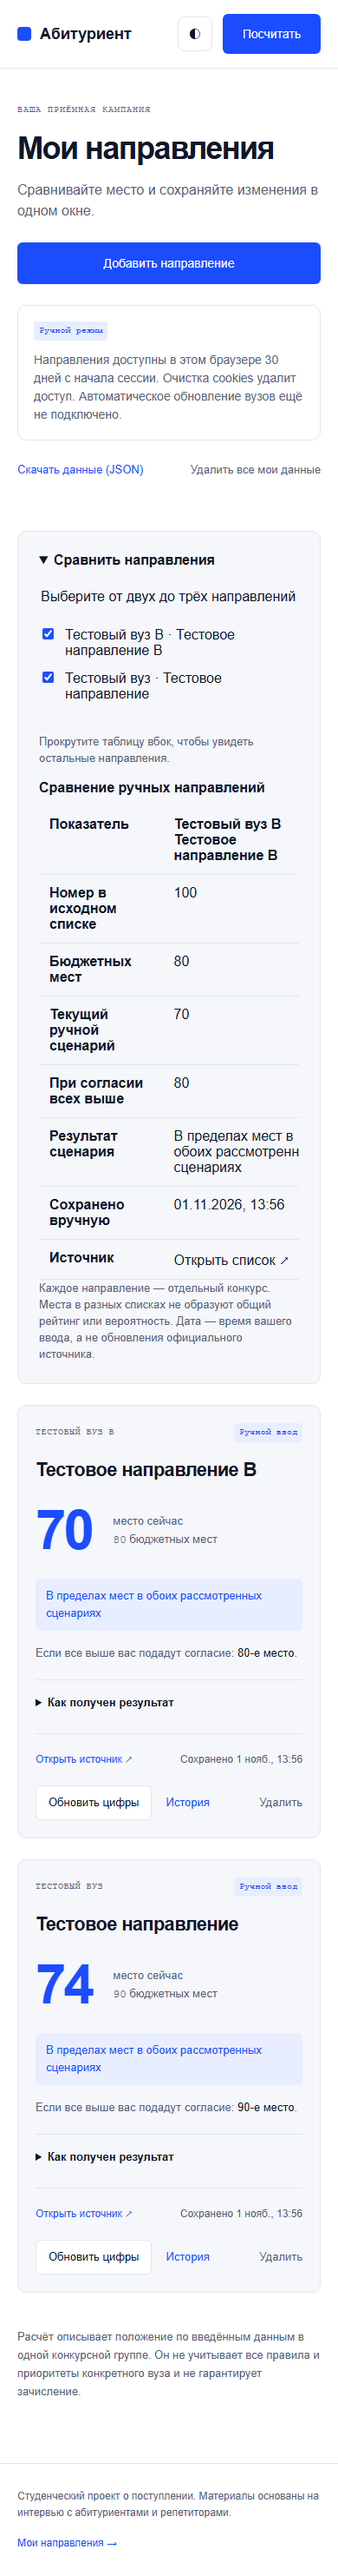
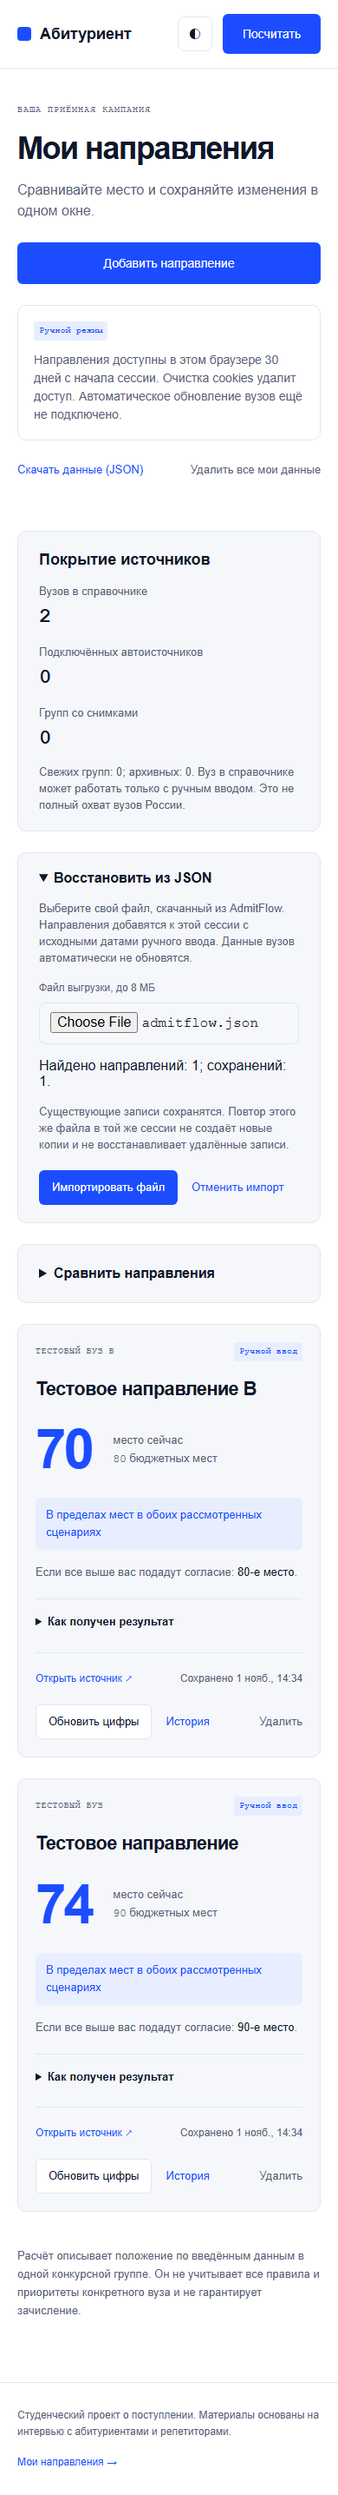
feat: expose verified admission source coverage

diff --git a/frontend/src/lib/contracts.ts b/frontend/src/lib/contracts.ts
@@ -11,6 +11,7 @@ export type Catalog = { items: University[]; total: number };
 export type DataExport = { formatVersion: 'manual-export-v1'; exportedAt: string; watches: WatchDetail[] };
 export type HistoryPage = { items: Snapshot[]; nextCursor: string | null };
 export type ImportResult = { importedCount: number; snapshotCount: number; replayed: boolean };
+export type Coverage = { catalogUniversities: number; automaticSources: number; publishedGroups: number; freshGroups: number; archiveGroups: number; nationalTotal: null; generatedAt: string };
 
 export class InvalidResponseError extends Error {
   constructor() { super('Сервер вернул некорректные данные. Расчёт не показан — попробуйте обновить страницу.'); }
@@ -108,6 +109,14 @@ export function parseImportResult(value: unknown): ImportResult {
     || typeof snapshots !== 'number' || !Number.isInteger(snapshots) || snapshots < count || snapshots > count * 500
     || typeof row.replayed !== 'boolean') throw new InvalidResponseError();
   return { importedCount: count, snapshotCount: snapshots, replayed: row.replayed };
+}
+export function parseCoverage(value: unknown): Coverage {
+  const row = object(value);
+  const counts = ['catalogUniversities', 'automaticSources', 'publishedGroups', 'freshGroups', 'archiveGroups'] as const;
+  for (const key of counts) if (typeof row[key] !== 'number' || !Number.isSafeInteger(row[key]) || row[key] < 0) throw new InvalidResponseError();
+  const result = Object.fromEntries(counts.map(key => [key, row[key]])) as Pick<Coverage, typeof counts[number]>;
+  if (result.publishedGroups > result.automaticSources || result.freshGroups + result.archiveGroups > result.publishedGroups || row.nationalTotal !== null) throw new InvalidResponseError();
+  return { ...result, nationalTotal: null, generatedAt: timestamp(row.generatedAt) };
 }
 export function parseCatalog(value: unknown): Catalog {
   const row = object(value);

diff --git a/frontend/tests/import.test.ts b/frontend/tests/import.test.ts
@@ -1,6 +1,6 @@
 import { expect, it } from 'vitest';
 import fixture from '../../shared/manual-watch.json';
-import { importKey, parseImportText } from '../src/lib/import';
+import { importKey, MAX_IMPORT_FILE_BYTES, parseImportText } from '../src/lib/import';
 import { parseImportResult } from '../src/lib/contracts';
 
 const bundle = { formatVersion: 'manual-export-v1', exportedAt: '2026-11-01T01:00:00Z', watches: [{ ...fixture, history: [fixture.latest] }] };
@@ -17,4 +17,21 @@ it('validates file contents and uses a stable key for an unchanged export', asyn
 it('rejects impossible import result counts', () => {
   expect(parseImportResult({ importedCount: 1, snapshotCount: 500, replayed: true }).replayed).toBe(true);
   for (const row of [{ importedCount: 0, snapshotCount: 1, replayed: false }, { importedCount: 1, snapshotCount: 501, replayed: false }, { importedCount: 1, snapshotCount: 1, replayed: 'false' }]) expect(() => parseImportResult(row)).toThrow();
+});
+
+it('accepts its own maximum-count pretty export with full-length IDs and numbers', () => {
+  const watches = Array.from({ length: 20 }, (_, watch) => {
+    const history = Array.from({ length: 500 }, (_, snapshot) => ({ ...fixture.latest,
+      id: `${String(watch).padStart(8, '0')}-0000-0000-0000-${String(500-snapshot).padStart(12, '0')}`,
+      capturedAt: '2026-11-01T00:00:00.123456+00:00',
+      values: { rank: 1_000_000, seats: 1_000_000, excluded: 0, noConsent: 0 },
+      calculation: { ...fixture.latest.calculation, place: 1_000_000, worstPlace: 1_000_000, seats: 1_000_000 },
+    }));
+    return { ...fixture, id: `watch-${watch}`, latest: history[0], history };
+  });
+  const text = JSON.stringify({ ...bundle, watches }, null, 2);
+  const size = new TextEncoder().encode(text).byteLength;
+  expect(size).toBeGreaterThan(6 * 1024 * 1024);
+  expect(size).toBeLessThan(MAX_IMPORT_FILE_BYTES);
+  expect(parseImportText(text).watches).toHaveLength(20);
 });

diff --git a/frontend/src/components/ImportData.tsx b/frontend/src/components/ImportData.tsx
@@ -32,7 +32,7 @@ export function ImportData({ count, disabled, onDone }: { count: number; disable
     setError('');
     mutation.reset();
     if (!file) return;
-    if (file.size > MAX_IMPORT_FILE_BYTES) { setError('Файл больше 6 МБ. Выберите выгрузку меньшего размера.'); return; }
+    if (file.size > MAX_IMPORT_FILE_BYTES) { setError('Файл больше 8 МБ. Выберите выгрузку меньшего размера.'); return; }
     setReading(true);
     try {
       const bundle = parseImportText(await file.text());
@@ -47,7 +47,7 @@ export function ImportData({ count, disabled, onDone }: { count: number; disable
   return <details className="import-data surface">
     <summary ref={summary}>Восстановить из JSON</summary>
     <p id="import-note" className="small-copy">Выберите свой файл, скачанный из AdmitFlow. Направления добавятся к этой сессии с исходными датами ручного ввода. Данные вузов автоматически не обновятся.</p>
-    <div className="field"><label htmlFor="manual-import-file">Файл выгрузки, до 6 МБ</label><input ref={input} id="manual-import-file" type="file" accept="application/json,.json" aria-describedby="import-note" disabled={disabled || reading} onChange={event => void select(event.target.files?.[0])} /></div>
+    <div className="field"><label htmlFor="manual-import-file">Файл выгрузки, до 8 МБ</label><input ref={input} id="manual-import-file" type="file" accept="application/json,.json" aria-describedby="import-note" disabled={disabled || reading} onChange={event => void select(event.target.files?.[0])} /></div>
     {reading && <p role="status">Проверяем файл…</p>}
     {error && <p className="form-error" role="alert">{error}</p>}
     {prepared && <div>

diff --git a/frontend/tests/e2e/import.spec.ts b/frontend/tests/e2e/import.spec.ts
@@ -18,7 +18,7 @@ test('новая сессия импортирует реальную выгру
   await page.reload();
   await expect(page.getByRole('heading', { name: 'Направлений пока нет' })).toBeVisible();
   await page.getByText('Восстановить из JSON', { exact: true }).click();
-  const file = page.getByLabel('Файл выгрузки, до 6 МБ');
+  const file = page.getByLabel('Файл выгрузки, до 8 МБ');
   await file.setInputFiles(upload(exported));
   await expect(page.getByText('Найдено направлений: 1; сохранений: 2.')).toBeVisible();
   expect((await (await page.request.get('/api/v1/watches')).json()).length).toBe(0);
@@ -53,11 +53,11 @@ test('невалидный или слишком большой файл не о
   page.on('request', request => { if (request.url().endsWith('/api/v1/import')) requests++; });
   await page.goto('/tracker');
   await page.getByText('Восстановить из JSON', { exact: true }).click();
-  const file = page.getByLabel('Файл выгрузки, до 6 МБ');
+  const file = page.getByLabel('Файл выгрузки, до 8 МБ');
   const invalid = { ...bundle, watches: [{ ...bundle.watches[0], latest: { ...fixture.latest, calculation: { ...fixture.latest.calculation, place: 1 } } }] };
   await file.setInputFiles(upload(invalid));
   await expect(page.getByRole('alert')).toContainText('корректную выгрузку');
-  await file.setInputFiles({ name: 'large.json', mimeType: 'application/json', buffer: Buffer.alloc(6 * 1024 * 1024 + 1) });
-  await expect(page.getByRole('alert')).toContainText('больше 6 МБ');
+  await file.setInputFiles({ name: 'large.json', mimeType: 'application/json', buffer: Buffer.alloc(8 * 1024 * 1024 + 1) });
+  await expect(page.getByRole('alert')).toContainText('больше 8 МБ');
   expect(requests).toBe(0);
 });

diff --git a/frontend/src/pages/TrackerPage.tsx b/frontend/src/pages/TrackerPage.tsx
@@ -6,6 +6,7 @@ import { ScenarioExplanation } from '../components/ScenarioExplanation';
 import { HistoryComparison } from '../components/HistoryComparison';
 import { WatchComparison } from '../components/WatchComparison';
 import { ImportData } from '../components/ImportData';
+import { CoverageSummary } from '../components/CoverageSummary';
 import { downloadExport } from '../lib/download';
 import { calculatePlace } from '../lib/calculator';
 import type { CalculationForm, CalculationValues } from '../lib/calculator';
@@ -147,6 +148,7 @@ export default function TrackerPage() {
     {expired && <div className="surface empty-state"><h2>Срок гостевой сессии истёк</h2><p>Доступ к прежним направлениям завершён или cookies были удалены. Для дальнейшей работы начните новую сессию.</p><button className="button button-primary" type="button" disabled={reset.isPending} onClick={() => reset.mutate()}>{reset.isPending ? 'Создаём…' : 'Начать новую сессию'}</button></div>}
     {reset.isError && <p className="form-error" role="alert">{errorText(reset.error)}</p>}
     <p className="tracker-notice" role="status">{notice}</p>
+    <CoverageSummary />
     <ImportData count={count} disabled={busy || expired || watches.isPending || watches.isError} onDone={result => setNotice(result.replayed ? 'Этот файл уже импортирован. Повтор не создаёт копий и не восстанавливает удалённое.' : `Импортировано направлений: ${result.importedCount}; сохранений: ${result.snapshotCount}.`)} />
     {!watches.isError && watches.data && <WatchComparison watches={watches.data} />}
     <div className={`tracker-layout ${form ? 'with-form' : ''}`}><div className="directions-list">

diff --git a/frontend/src/components/CoverageSummary.tsx b/frontend/src/components/CoverageSummary.tsx
@@ -1,0 +1,13 @@
+import { useQuery } from '@tanstack/react-query';
+import { api } from '../lib/api';
+
+export function CoverageSummary() {
+  const query = useQuery({ queryKey: ['coverage'], queryFn: api.coverage });
+  return <section className="coverage-summary surface" aria-labelledby="coverage-heading">
+    <h2 id="coverage-heading">Покрытие источников</h2>
+    {query.isPending ? <p className="small-copy" role="status">Проверяем покрытие…</p> : query.isError ? <p className="small-copy" role="alert">Не удалось проверить покрытие. <button className="text-button" type="button" onClick={() => void query.refetch()}>Повторить проверку покрытия</button></p> : <>
+      <dl className="coverage-numbers"><div><dt>Вузов в справочнике</dt><dd>{query.data.catalogUniversities}</dd></div><div><dt>Подключённых автоисточников</dt><dd>{query.data.automaticSources}</dd></div><div><dt>Групп со снимками</dt><dd>{query.data.publishedGroups}</dd></div></dl>
+      <p className="small-copy">Свежих групп: {query.data.freshGroups}; архивных: {query.data.archiveGroups}. Вуз в справочнике может работать только с ручным вводом. Это не полный охват вузов России.</p>
+    </>}
+  </section>;
+}

diff --git a/frontend/src/lib/api.ts b/frontend/src/lib/api.ts
@@ -1,7 +1,7 @@
 import type { CalculationValues } from './calculator';
 import type { DataExport, SessionInfo, WatchCreate } from './contracts';
 import { withRequestTimeout } from './transport';
-import { InvalidResponseError, parseCatalog, parseDetail, parseExport, parseHistoryPage, parseImportResult, parseSession, parseSnapshot, parseWatch, parseWatches } from './contracts';
+import { InvalidResponseError, parseCatalog, parseCoverage, parseDetail, parseExport, parseHistoryPage, parseImportResult, parseSession, parseSnapshot, parseWatch, parseWatches } from './contracts';
 export type { Snapshot, Watch, WatchDetail, WatchCreate, SessionInfo, University, Catalog } from './contracts';
 export class SessionExpiredError extends Error {
   constructor() { super('Срок доступа истёк или данные браузера были удалены. Начните новую сессию, чтобы сохранять направления снова.'); }
@@ -52,6 +52,7 @@ export const api = {
     return ensureSession();
   },
   universities: async (query: string) => parseCatalog(await request(`/universities?q=${encodeURIComponent(query)}`)),
+  coverage: async () => parseCoverage(await request('/coverage')),
   exportData: () => read('/export', parseExport),
   async importData(bundle: DataExport, key: string) {
     await ensureSession();

diff --git a/frontend/tests/e2e/coverage.spec.ts b/frontend/tests/e2e/coverage.spec.ts
@@ -1,0 +1,18 @@
+import { expect, test } from '@playwright/test';
+
+test('справочник не выдаётся за автоматический охват', async ({ page }) => {
+  test.skip(process.env.E2E_API !== '1', 'Требуется API');
+  await page.goto('/tracker');
+  const section = page.getByRole('region', { name: 'Покрытие источников' });
+  await expect(section.locator('dd')).toHaveText(['2','0','0']);
+  await expect(section).toContainText('Это не полный охват');
+});
+
+test('ошибка проверки покрытия не заменяется ложным нулём', async ({ page }) => {
+  await page.route('**/api/v1/coverage', route => route.fulfill({ status: 503, json: { detail: 'Unavailable' } }));
+  await page.goto('/tracker');
+  const section = page.getByRole('region', { name: 'Покрытие источников' });
+  await expect(section.getByRole('alert')).toContainText('Не удалось проверить покрытие');
+  await expect(section.locator('dd')).toHaveCount(0);
+  await page.unroute('**/api/v1/coverage');
+});

diff --git a/frontend/tests/coverage.test.ts b/frontend/tests/coverage.test.ts
@@ -1,0 +1,8 @@
+import { expect, it } from 'vitest';
+import { parseCoverage } from '../src/lib/contracts';
+
+const base = { catalogUniversities: 2, automaticSources: 0, publishedGroups: 0, freshGroups: 0, archiveGroups: 0, nationalTotal: null, generatedAt: '2026-11-01T00:00:00Z' };
+it('keeps catalog separate and refuses invented or inconsistent coverage', () => {
+  expect(parseCoverage(base)).toEqual(base);
+  for (const changes of [{ nationalTotal: 1000 }, { automaticSources: true }, { publishedGroups: 1 }, { freshGroups: 1 }, { catalogUniversities: -1 }]) expect(() => parseCoverage({ ...base, ...changes })).toThrow();
+});

diff --git a/frontend/src/tracker.css b/frontend/src/tracker.css
@@ -114,3 +114,8 @@ button:disabled { cursor: wait; opacity: .55; }
 .import-data summary { cursor: pointer; font-weight: 600; }
 .import-data p { margin: 16px 0; }
 .import-data input[type="file"] { max-width: 100%; }
+.coverage-summary { padding: 20px 24px; margin-bottom: 24px; }
+.coverage-summary h2 { font-size: 18px; line-height: 1.4; letter-spacing: 0; margin: 0 0 16px; }
+.coverage-numbers { display: flex; flex-wrap: wrap; gap: 20px 36px; margin: 0 0 16px; }
+.coverage-numbers dt { color: var(--muted); font-size: 13px; }
+.coverage-numbers dd { margin: 8px 0 0; font: 600 24px var(--mono); }

diff --git a/frontend/src/lib/import.ts b/frontend/src/lib/import.ts
@@ -1,7 +1,7 @@
 import { parseExport } from './contracts';
 import type { DataExport } from './contracts';
 
-export const MAX_IMPORT_FILE_BYTES = 6 * 1024 * 1024;
+export const MAX_IMPORT_FILE_BYTES = 8 * 1024 * 1024;
 
 export function parseImportText(text: string): DataExport {
   let data: DataExport;

diff --git a/backend/app/coverage.py b/backend/app/coverage.py
@@ -1,0 +1,35 @@
+"""Catalog size and verified automation are separate metrics."""
+from datetime import datetime, timezone
+
+from sqlalchemy import func, select
+
+from .admissions import CompetitionGroup, PublishedSnapshot, Source, SourceSnapshot, University
+from .sources.contracts import AdapterError
+from .sources.publishing import binding_from_db
+from .sources.registry import PRODUCTION_REGISTRY
+from .sources.status import source_status
+
+
+def coverage(db,*,registry=PRODUCTION_REGISTRY,now=None):
+    now=now or datetime.now(timezone.utc)
+    result=dict(catalogUniversities=db.scalar(select(func.count()).select_from(University)),automaticSources=0,publishedGroups=0,freshGroups=0,archiveGroups=0,nationalTotal=None,generatedAt=now)
+    versions=registry.attested_versions
+    if not versions:
+        return result
+    sources=db.scalars(select(Source).join(CompetitionGroup).where(Source.enabled.is_(True),Source.adapter_version.in_(versions),CompetitionGroup.coverage=='automatic',CompetitionGroup.rules_version.is_not(None))).all()
+    groups={}
+    for source in sources:
+        try:
+            registry.resolve(binding_from_db(db,source))
+        except AdapterError:
+            continue
+        result['automaticSources']+=1
+        pointer=db.get(PublishedSnapshot,source.id)
+        snapshot=db.get(SourceSnapshot,pointer.snapshot_id) if pointer else None
+        if not snapshot or not snapshot.complete or not snapshot.normalized_hash or snapshot.adapter_version!=source.adapter_version:
+            continue
+        groups.setdefault(source.group_id,[]).append(source_status(db,source.id,now=now,registry=registry))
+    result['publishedGroups']=len(groups)
+    result['freshGroups']=sum(all(item['state']=='fresh' for item in states) for states in groups.values())
+    result['archiveGroups']=sum(all(item['dataKind']=='archive' for item in states) for states in groups.values())
+    return result
